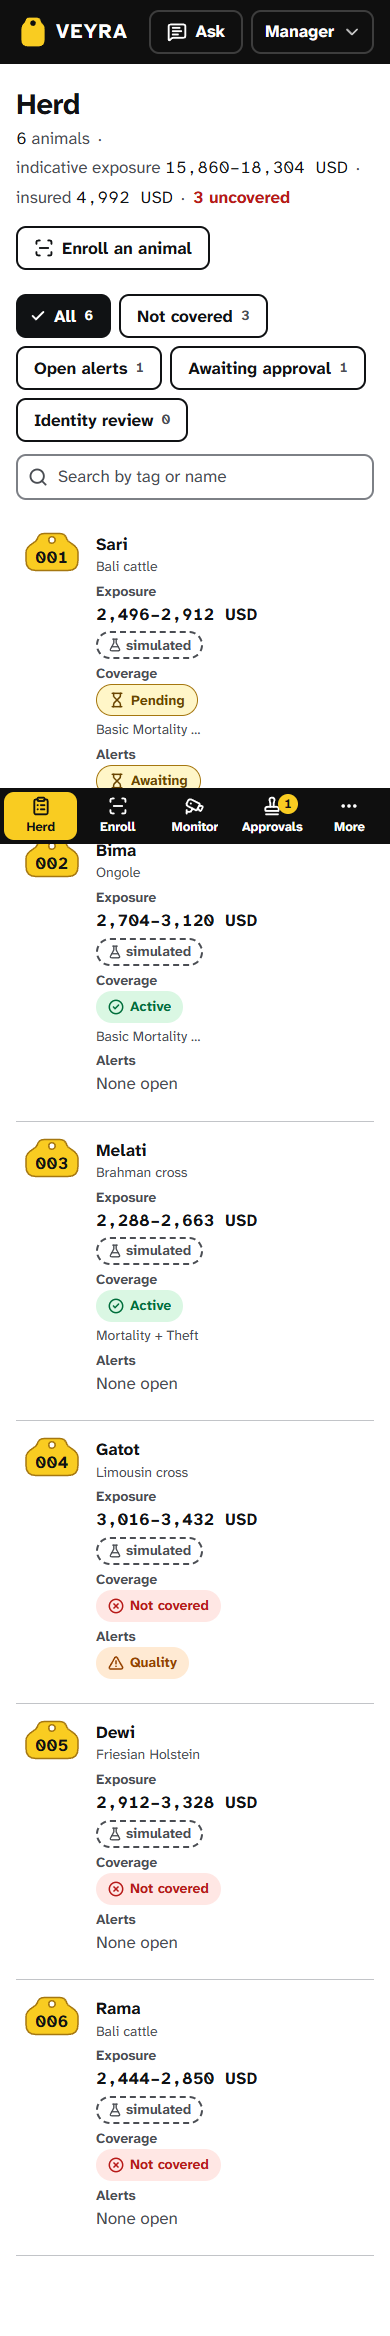
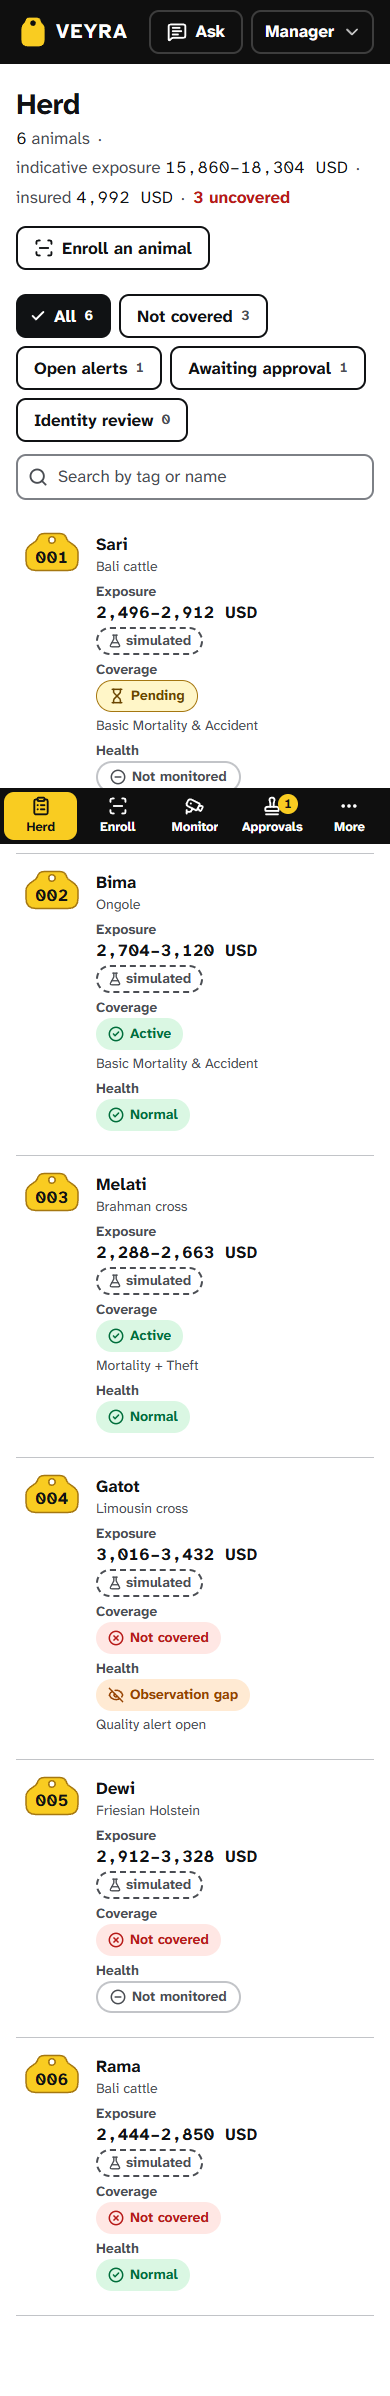
fix(web): fit the herd table beside the passbook at tablet width
At 1024 the table now fits its 552px beside the 440px passbook with no
horizontal scroll and 64px rows: below xl the Animal cell shows the name,
Coverage and Health show only their pills, and the breed, cover product,
alert kind and awaiting pill are visually hidden but still read, and ride
in a new row-link tooltip (DataTable rowTitle). Narrow herd tables pad
cells 8px a side, two-word pills may wrap inside the pill, and exposure
breaks before its currency code. At 1440 the table fits 952px and the
Awaiting pill is no longer cut off.

diff --git a/apps/web/src/features/herd/HerdPage.tsx b/apps/web/src/features/herd/HerdPage.tsx
@@ -67,6 +67,29 @@ function shortAlertLabel(kind: string): string {
   return "Alert";
 }
 
+function awaitingLabel(count: number): string {
+  return count === 1 ? "Awaiting" : `${count} awaiting`;
+}
+
+/**
+ * Beside the passbook on a tablet (lg up to xl) a cell keeps to its first line so the table fits
+ * at 64px rows: the rest is visually hidden but still read, and it rides in the row's tooltip.
+ */
+const TABLET_HIDDEN = "lg:max-xl:sr-only";
+
+/** The row's tooltip: what the tablet layout moves out of the cells, so a hover still finds it. */
+export function rowTitle(row: HerdItem): string {
+  const parts = [`${row.name}, ${row.breed} (${row.id})`];
+  const product = row.coverage.product_id ? productName(row.coverage.product_id) : null;
+  if (product) parts.push(`Cover: ${product}`);
+  parts.push(`Health: ${row.health.reason}`);
+  if (row.alerts.open_count > 0) {
+    parts.push(`${row.alerts.kinds.length > 0 ? row.alerts.kinds.map(shortAlertLabel).join(", ") : "Alert"} alert open`);
+  }
+  if (row.awaiting_approval_count > 0) parts.push(`${awaitingLabel(row.awaiting_approval_count)} approval`);
+  return parts.join(" · ");
+}
+
 /** Sorts the most urgent health state last, so a descending sort puts it on top. */
 const HEALTH_ORDER: readonly HerdItem["health"]["status"][] = [
   "not_monitored",
@@ -97,7 +120,8 @@ const COLUMNS: readonly Column<HerdItem>[] = [
         <span className="flex flex-col text-sm font-regular text-muted">
           {/* Below xl the tag's printed number carries the ID, so the row keeps to 64px. */}
           <Mono className="hidden whitespace-nowrap xl:inline">{row.id}</Mono>
-          <span>{row.breed}</span>
+          {/* Beside the passbook the breed steps out of sight (row tooltip, passbook, passport) but is still read. */}
+          <span className={TABLET_HIDDEN}>{row.breed}</span>
         </span>
       </span>
     ),
@@ -125,7 +149,7 @@ const COLUMNS: readonly Column<HerdItem>[] = [
       <span className="flex flex-col items-start gap-1">
         <StatusPill {...coveragePill(row.coverage.status)} />
         {row.coverage.product_id && (
-          <span className="max-w-28 truncate text-sm text-muted max-md:max-w-none max-md:whitespace-normal xl:max-w-none xl:whitespace-normal" title={productName(row.coverage.product_id) ?? undefined}>
+          <span className={`text-sm text-muted ${TABLET_HIDDEN}`}>
             {productName(row.coverage.product_id)}
           </span>
         )}
@@ -150,18 +174,22 @@ const COLUMNS: readonly Column<HerdItem>[] = [
   {
     id: "health",
     header: "Health",
-    width: "172px",
+    width: "152px",
     sortValue: (row) => HEALTH_ORDER.indexOf(row.health.status) * 100 + row.awaiting_approval_count,
     cell: (row) => (
-      <span className="flex flex-col items-start gap-1" title={row.health.reason}>
+      <span className="flex flex-col items-start gap-1">
         <StatusPill {...healthPill(row.health.status)} />
+        {/* Beside the passbook the cell keeps to its pill; the alert and the waiting line stay read and
+            show in the row tooltip, and the passbook beside the table prints the waiting line itself. */}
         {row.alerts.open_count > 0 && (
-          <span className="text-sm text-muted">
+          <span className={`text-sm text-muted ${TABLET_HIDDEN}`}>
             {row.alerts.kinds.length > 0 ? row.alerts.kinds.map(shortAlertLabel).join(", ") : "Alert"} alert open
           </span>
         )}
         {row.awaiting_approval_count > 0 && (
-          <StatusPill tone="awaiting" label={row.awaiting_approval_count === 1 ? "Awaiting" : `${row.awaiting_approval_count} awaiting`} />
+          <span className={TABLET_HIDDEN}>
+            <StatusPill tone="awaiting" label={awaitingLabel(row.awaiting_approval_count)} />
+          </span>
         )}
       </span>
     ),
@@ -191,7 +219,7 @@ function ExposureCell({ row, columnSource }: { row: HerdItem; columnSource: Sour
         low={row.valuation.value_low_minor}
         high={row.valuation.value_high_minor}
         currency={row.valuation.currency}
-        className="font-bold whitespace-nowrap"
+        className="font-bold leading-tight"
       />
       {/* A row whose source differs from the column's carries its own chip; stacked rows (no header) always do. */}
       {source && <Provenance source={source} className={differs ? undefined : "dt-stacked-only"} />}
@@ -358,6 +386,7 @@ export function HerdPage() {
           rows={rows}
           rowKey={(row) => row.id}
           rowHref={(row) => hrefFor(row.id)}
+          rowTitle={rowTitle}
           selectedKey={wide ? panelAnimal : selectedParam}
           loading={herd.isPending}
           loadingRows={6}

diff --git a/apps/web/src/styles/components.css b/apps/web/src/styles/components.css
@@ -327,6 +327,33 @@
   color: var(--ink);
 }
 
+/* A table that drops columns to fit sits beside a panel on a tablet: between its stacking point and
+   1024px of container its cells pad 8px a side, so the columns fit without a horizontal scroll. */
+@container (min-width: 34rem) and (max-width: 63.9375rem) {
+  .dt-wrap[data-stack="narrow"] :is(.dt td, .dt th[scope="col"]) {
+    padding-inline: var(--space-2);
+  }
+  .dt-wrap[data-stack="narrow"] .dt td .rounded-pill {
+    gap: var(--space-1);
+    padding-inline: 0.625rem;
+  }
+}
+/* Beside the 440px passbook a two-word status ("Observation gap", "Not covered") may take two lines
+   inside its pill rather than be cut: every word stays visible and the row still keeps to 64px. */
+@container (min-width: 34rem) and (max-width: 39.9375rem) {
+  .dt-wrap[data-stack="narrow"] .dt td .rounded-pill {
+    height: auto;
+    min-height: 2rem;
+    padding-block: 0.125rem;
+    line-height: 1.2;
+    white-space: normal;
+  }
+  .dt-wrap[data-stack="narrow"] .dt td .rounded-pill > .truncate {
+    overflow: visible;
+    white-space: normal;
+  }
+}
+
 /* Stacked rows: below 720px of container, or below 544px for a table that drops columns to fit. */
 .dt-stacked-only {
   display: none;

diff --git a/apps/web/src/components/DataTable.tsx b/apps/web/src/components/DataTable.tsx
@@ -37,6 +37,8 @@ export interface DataTableProps<T> {
   rows: readonly T[];
   rowKey: (row: T) => string;
   rowHref?: (row: T) => string;
+  /** Tooltip for the row link (which covers the whole row), such as facts a narrow layout moves out of its cells. */
+  rowTitle?: (row: T) => string;
   selectedKey?: string | null;
   /** Controlled sort; omit for the table to sort itself starting from `defaultSort`. */
   sort?: SortState | null;
@@ -72,6 +74,7 @@ export function DataTable<T>({
   rows,
   rowKey,
   rowHref,
+  rowTitle,
   selectedKey,
   sort: controlledSort,
   onSortChange,
@@ -150,7 +153,7 @@ export function DataTable<T>({
                 data-lead={column.lead ? "" : undefined}
               >
                 {column.primary && href ? (
-                  <Link to={href} className="dt-row-link" aria-current={selected ? "true" : undefined}>
+                  <Link to={href} className="dt-row-link" title={rowTitle?.(row)} aria-current={selected ? "true" : undefined}>
                     {content}
                   </Link>
                 ) : (
